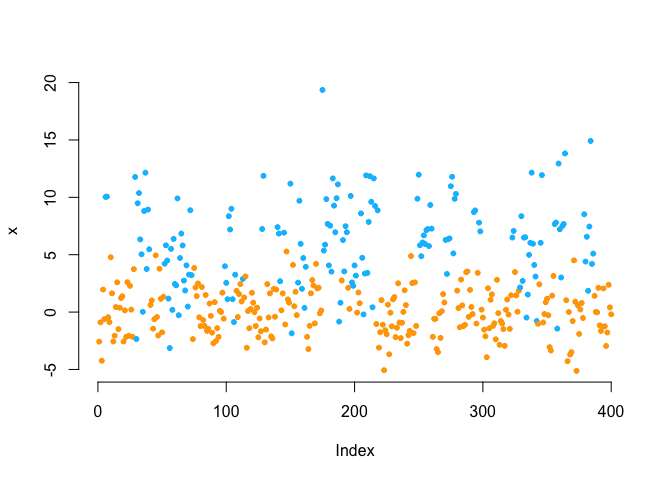
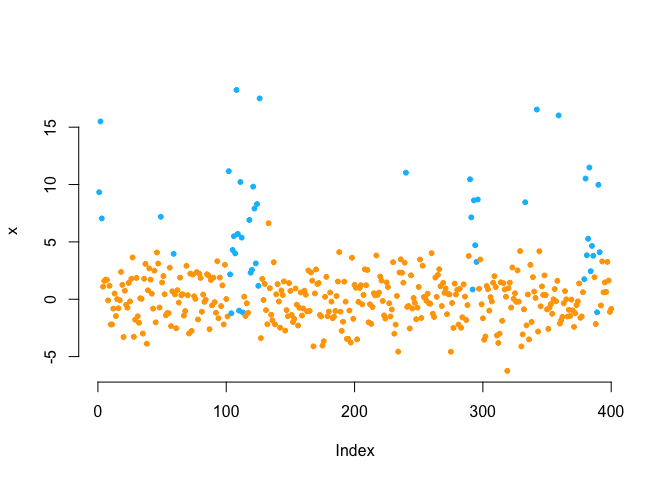
Updating README

diff --git a/README.md b/README.md
@@ -35,7 +35,7 @@ devtools::install_github("janoleko/Lcpp")
 # parameters
 mu = c(0, 6)
 sigma = c(2, 4)
-Gamma = matrix(c(0.5, 0.05, 0.15, 0.85), nrow = 2, byrow = TRUE)
+Gamma = matrix(c(0.95, 0.05, 0.15, 0.85), nrow = 2, byrow = TRUE)
 delta = c(0.5, 0.5)
 
 # simulation
